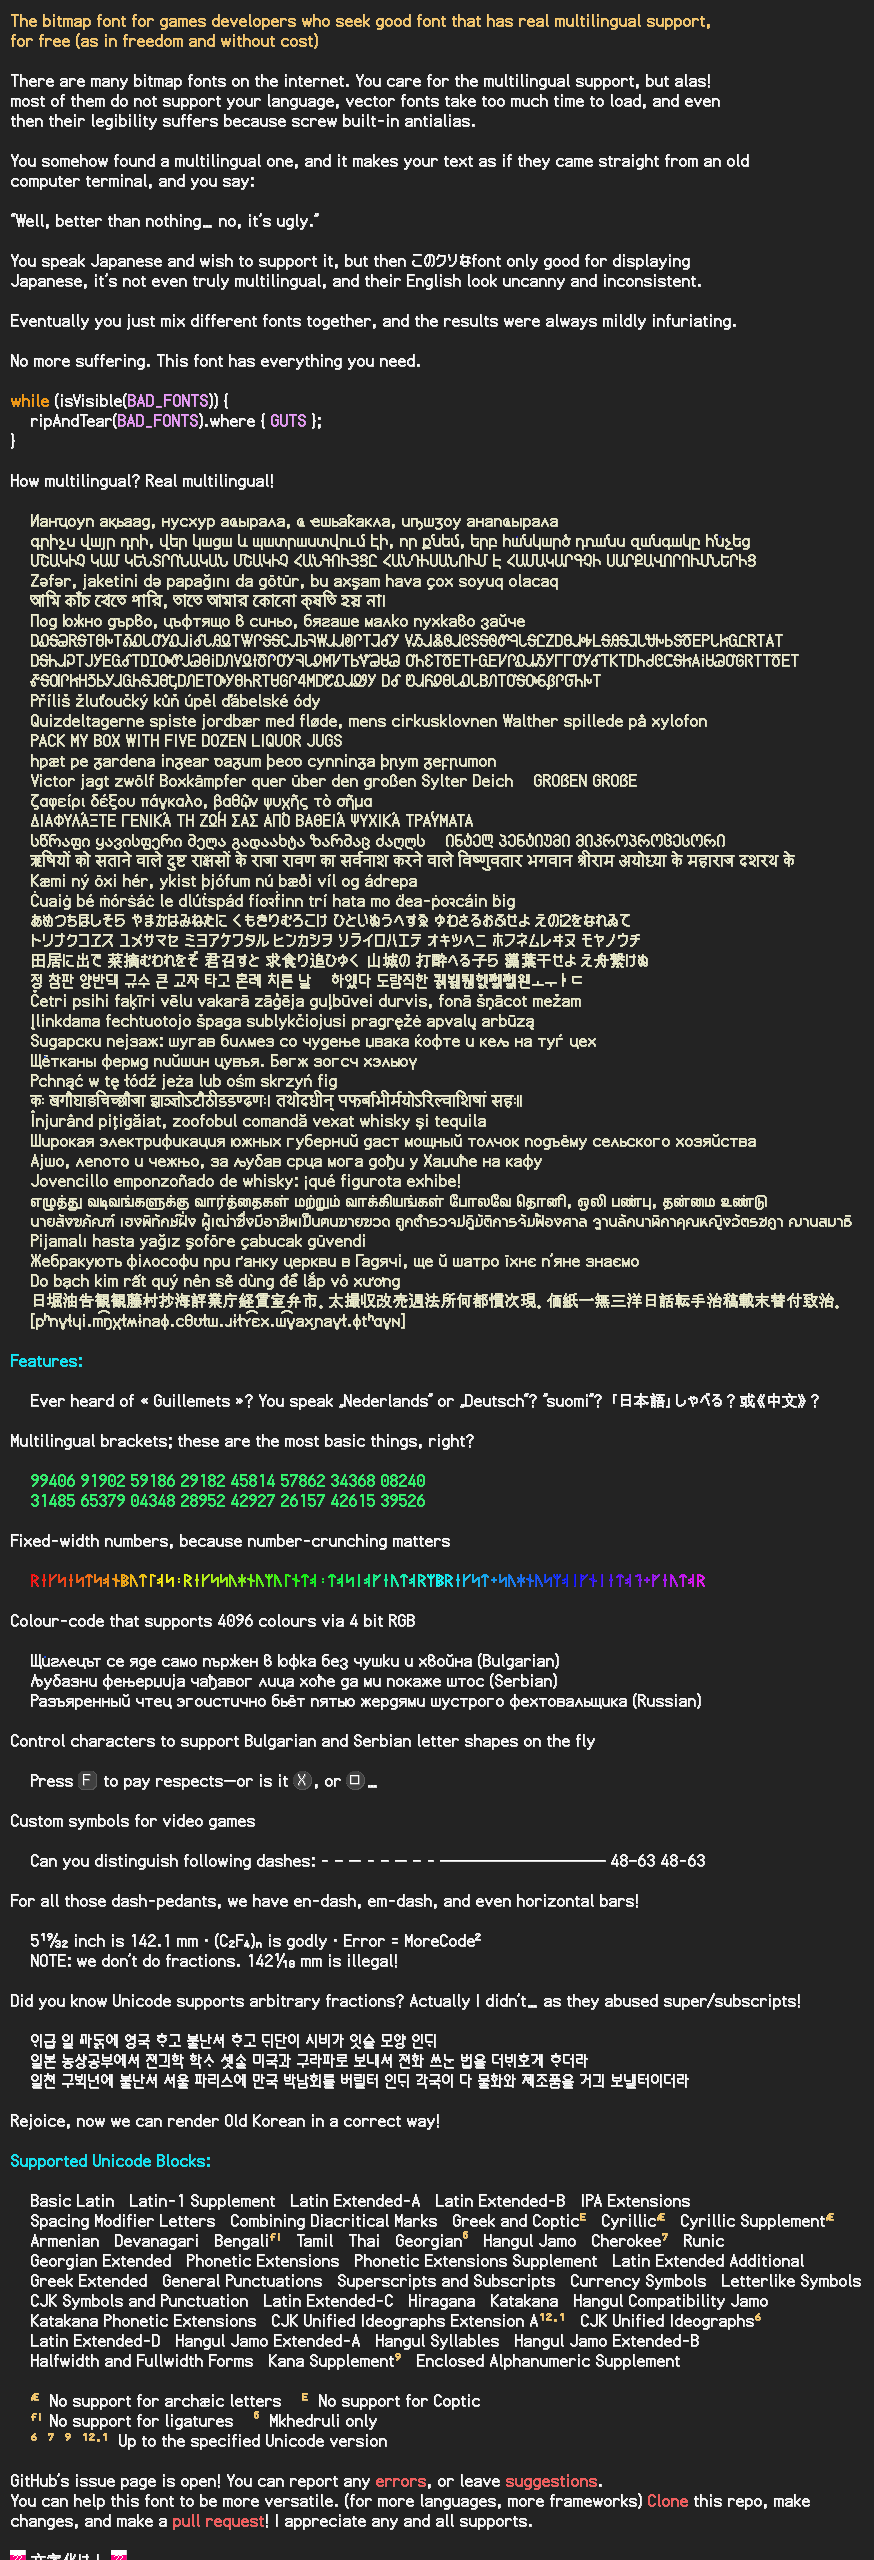
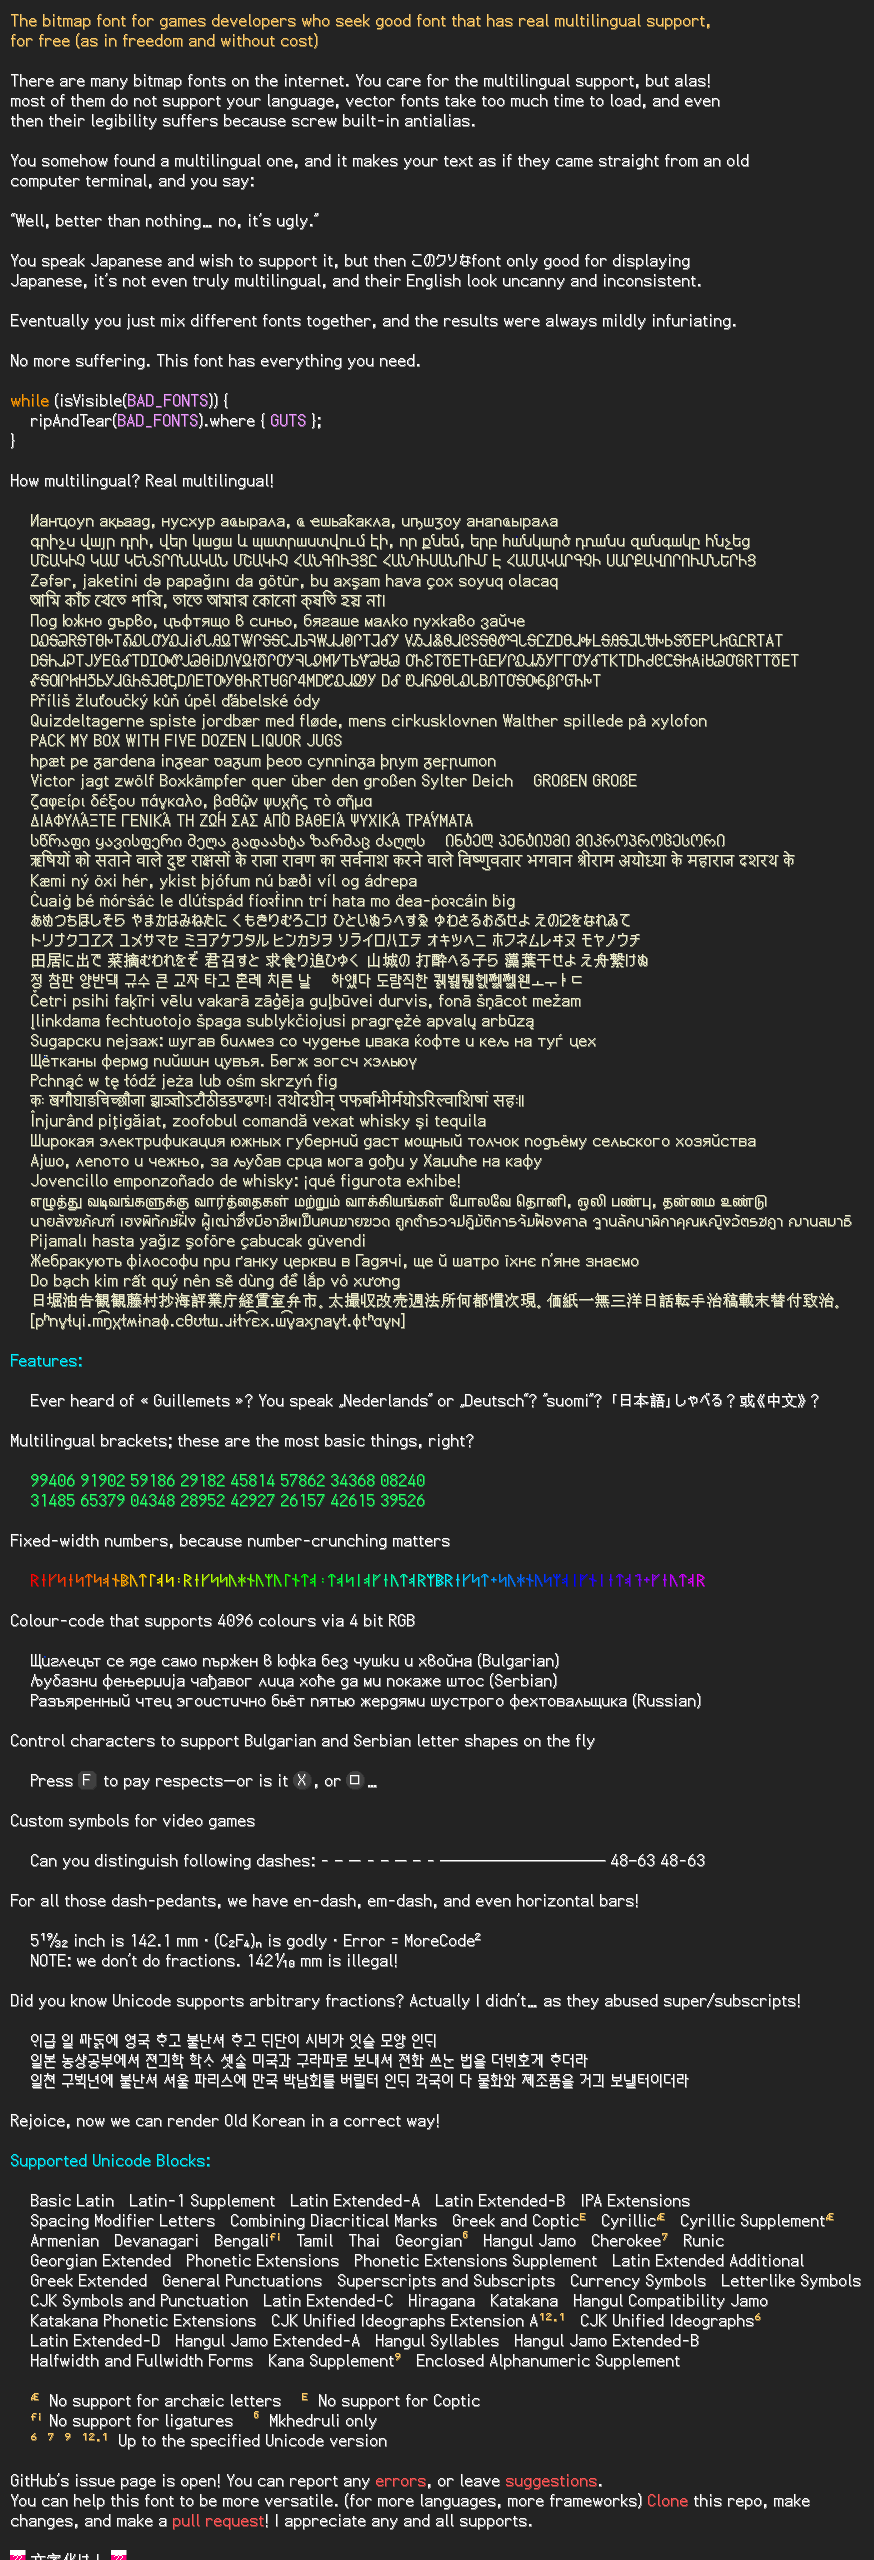
fixed the demo program that it would blend the text shadow correctly on the PNG output so it would look as good as the in-game

diff --git a/FontTestGDX/src/FontTestGDX.kt b/FontTestGDX/src/FontTestGDX.kt
@@ -35,7 +35,7 @@ class FontTestGDX : Game() {
     private lateinit var faketex: Texture
 
     override fun create() {
-        font = TerrarumSansBitmap("./assets", debug = true, flipY = false, errorOnUnknownChar = false, shadowAlpha = 0.796f) // must test for two flipY cases
+        font = TerrarumSansBitmap("./assets", debug = true, flipY = false, errorOnUnknownChar = false, shadowAlpha = 0.5f) // must test for two flipY cases
 
         val inTextFile = Gdx.files.internal("./$demotextName")
         val reader = inTextFile.reader("UTF-8")
@@ -81,20 +81,18 @@ class FontTestGDX : Game() {
         if (tex == null) {
             frameBuffer.begin()
 
-            Gdx.gl.glClearColor(0f,0f,0f,0f)
+            Gdx.gl.glClearColor(.141f, .141f, .141f, 1f)
             Gdx.gl.glClear(GL20.GL_COLOR_BUFFER_BIT)
             Gdx.gl.glEnable(GL20.GL_TEXTURE_2D)
             Gdx.gl.glEnable(GL20.GL_BLEND)
-            Gdx.gl.glBlendFuncSeparate(GL20.GL_SRC_ALPHA, GL20.GL_ONE_MINUS_SRC_ALPHA, GL20.GL_ONE, GL20.GL_ONE)
-//            Gdx.gl.glBlendFuncSeparate(GL20.GL_SRC_COLOR, GL20.GL_ONE_MINUS_SRC_ALPHA, GL20.GL_SRC_ALPHA, GL20.GL_ONE)
-
-//            Gdx.gl.glBlendFunc(GL20.GL_SRC_ALPHA, GL20.GL_ONE_MINUS_SRC_ALPHA)
+            batch.setBlendFunctionSeparate(GL20.GL_SRC_ALPHA, GL20.GL_ONE_MINUS_SRC_ALPHA, GL20.GL_ONE, GL20.GL_ONE_MINUS_SRC_ALPHA) // for not premultiplied textures
 
             batch.projectionMatrix = camera.combined
             batch.begin()
 
             batch.color = backcol
             batch.draw(faketex, 0f, 0f, TEXW.toFloat(), TEXH.toFloat())
+            batch.flush()
 
             batch.color = Color.WHITE
             inputText.forEachIndexed { index, s ->
@@ -128,7 +126,7 @@ class FontTestGDX : Game() {
         Gdx.gl.glClear(GL20.GL_COLOR_BUFFER_BIT)
         Gdx.gl.glEnable(GL20.GL_TEXTURE_2D)
         Gdx.gl.glEnable(GL20.GL_BLEND)
-        Gdx.gl.glBlendFuncSeparate(GL20.GL_SRC_ALPHA, GL20.GL_ONE_MINUS_SRC_ALPHA, GL20.GL_ONE, GL20.GL_ONE)
+        batch.setBlendFunctionSeparate(GL20.GL_SRC_ALPHA, GL20.GL_ONE_MINUS_SRC_ALPHA, GL20.GL_ONE, GL20.GL_ONE_MINUS_SRC_ALPHA) // for not premultiplied textures
 
 
         batch.begin()
